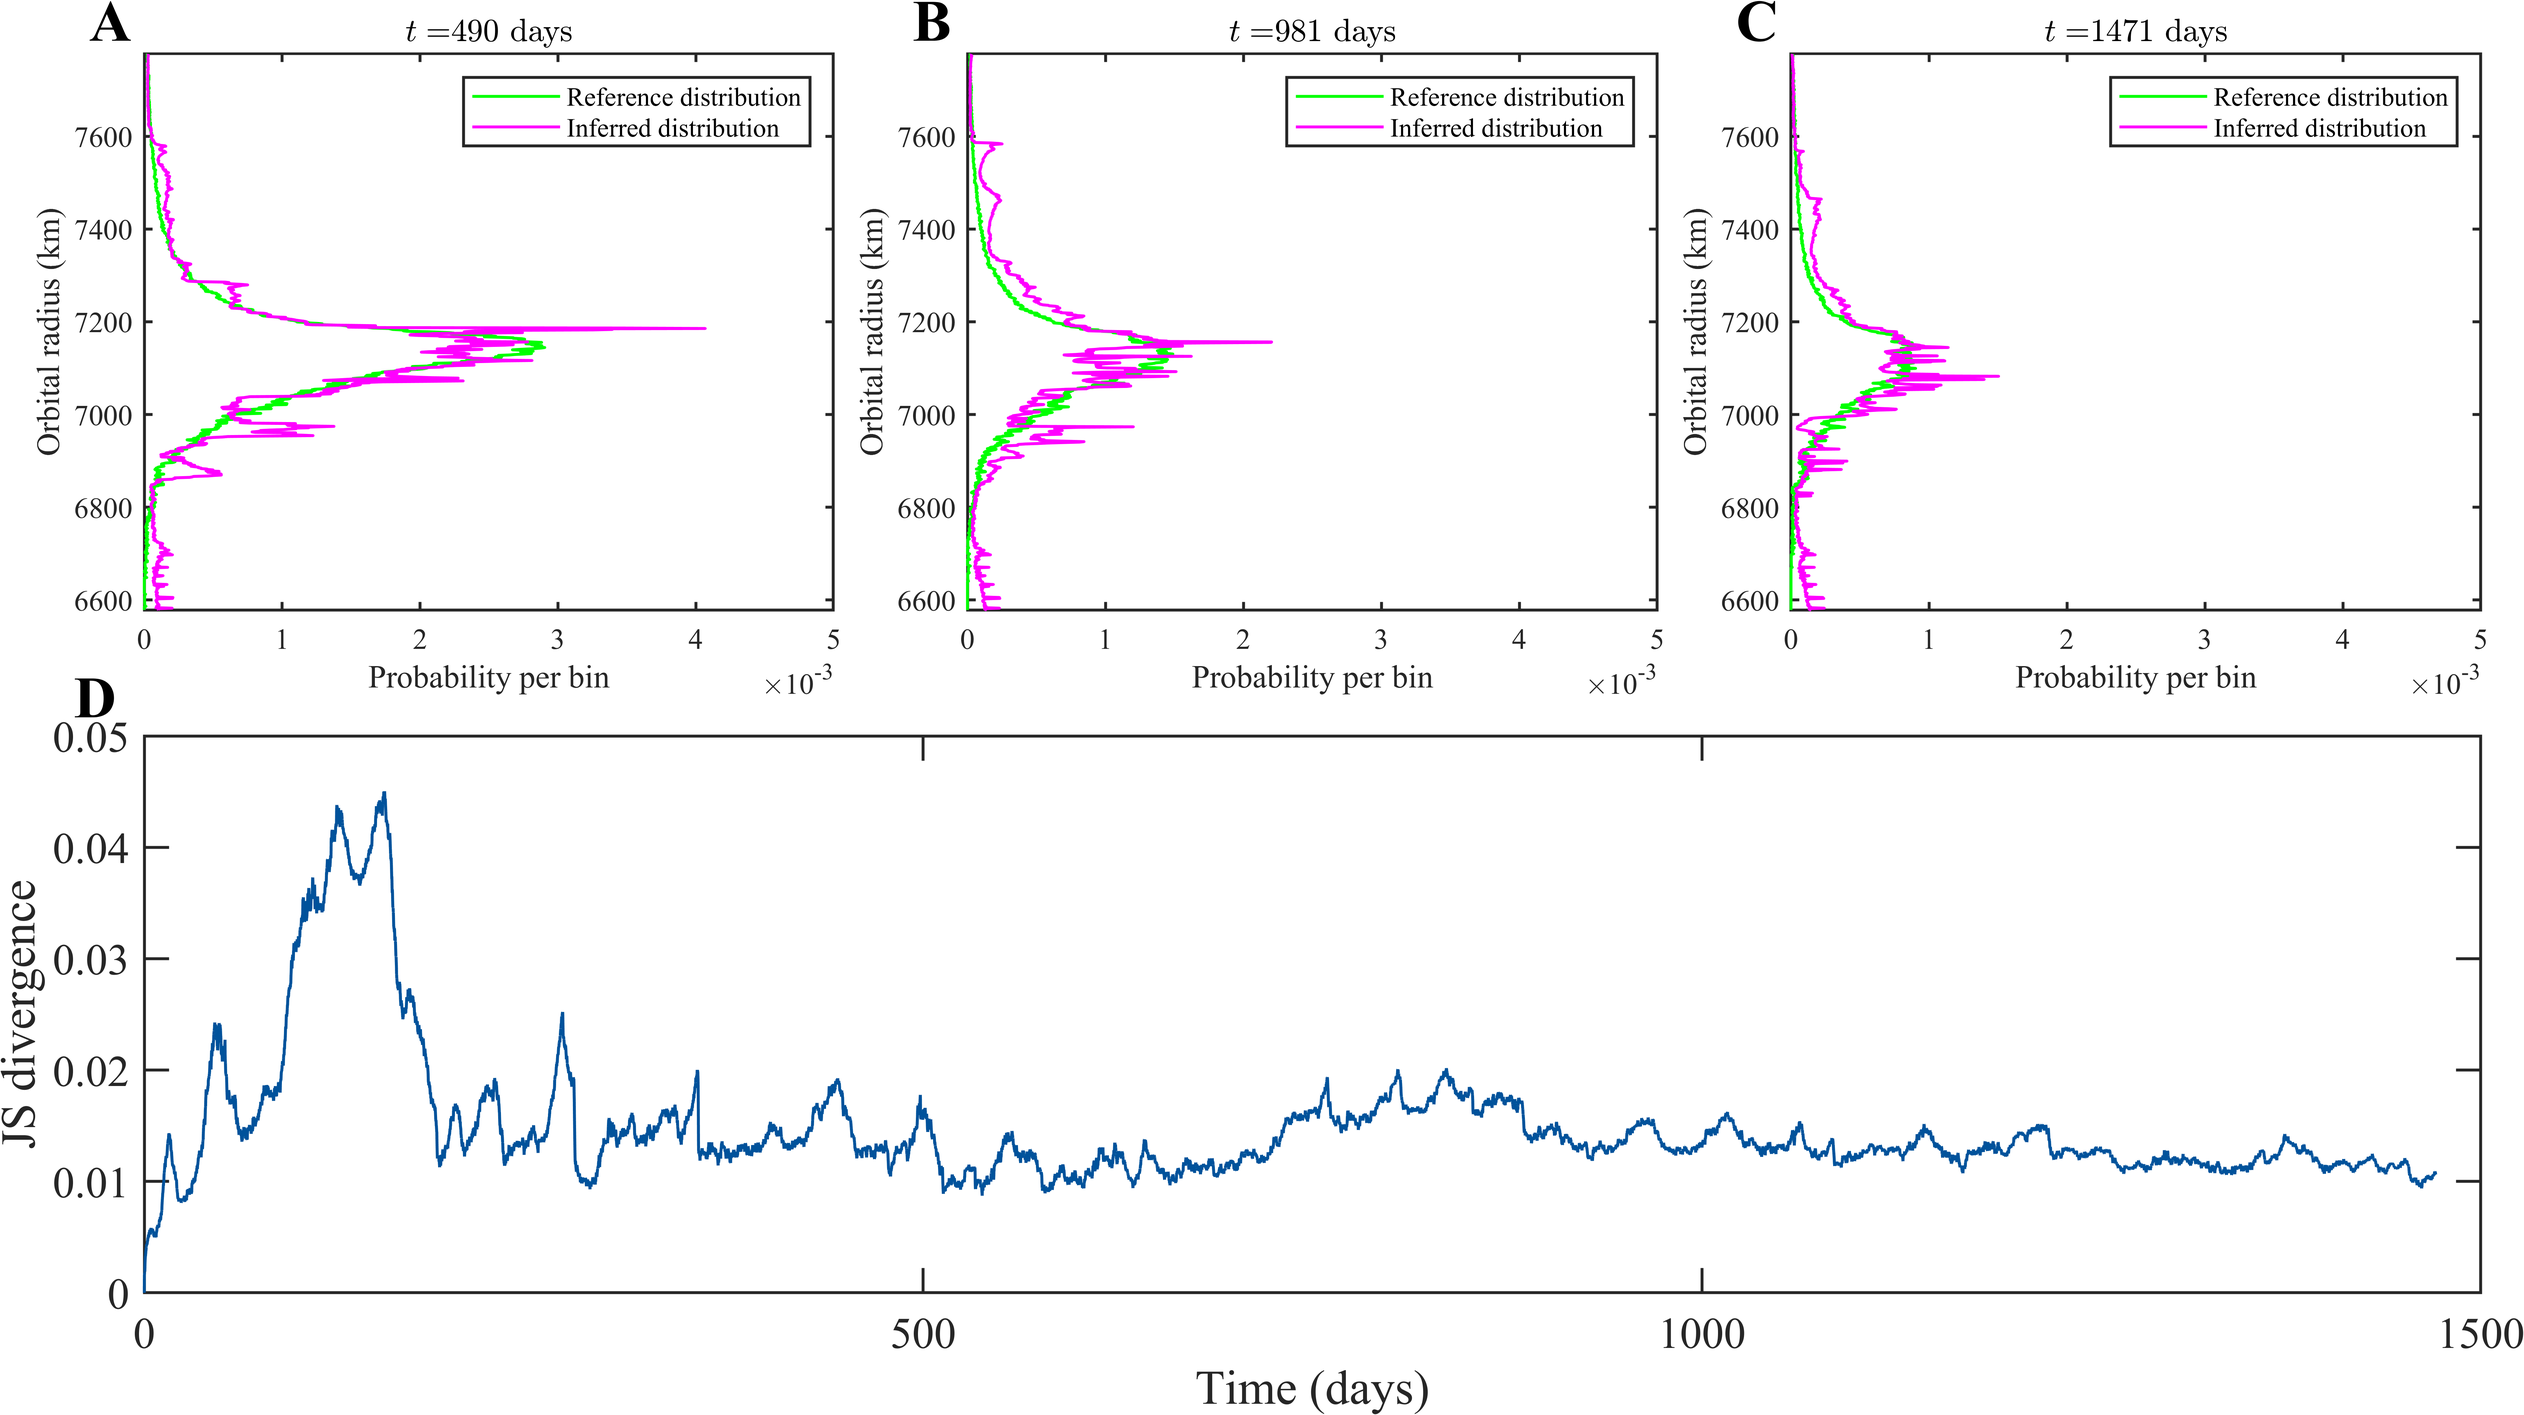
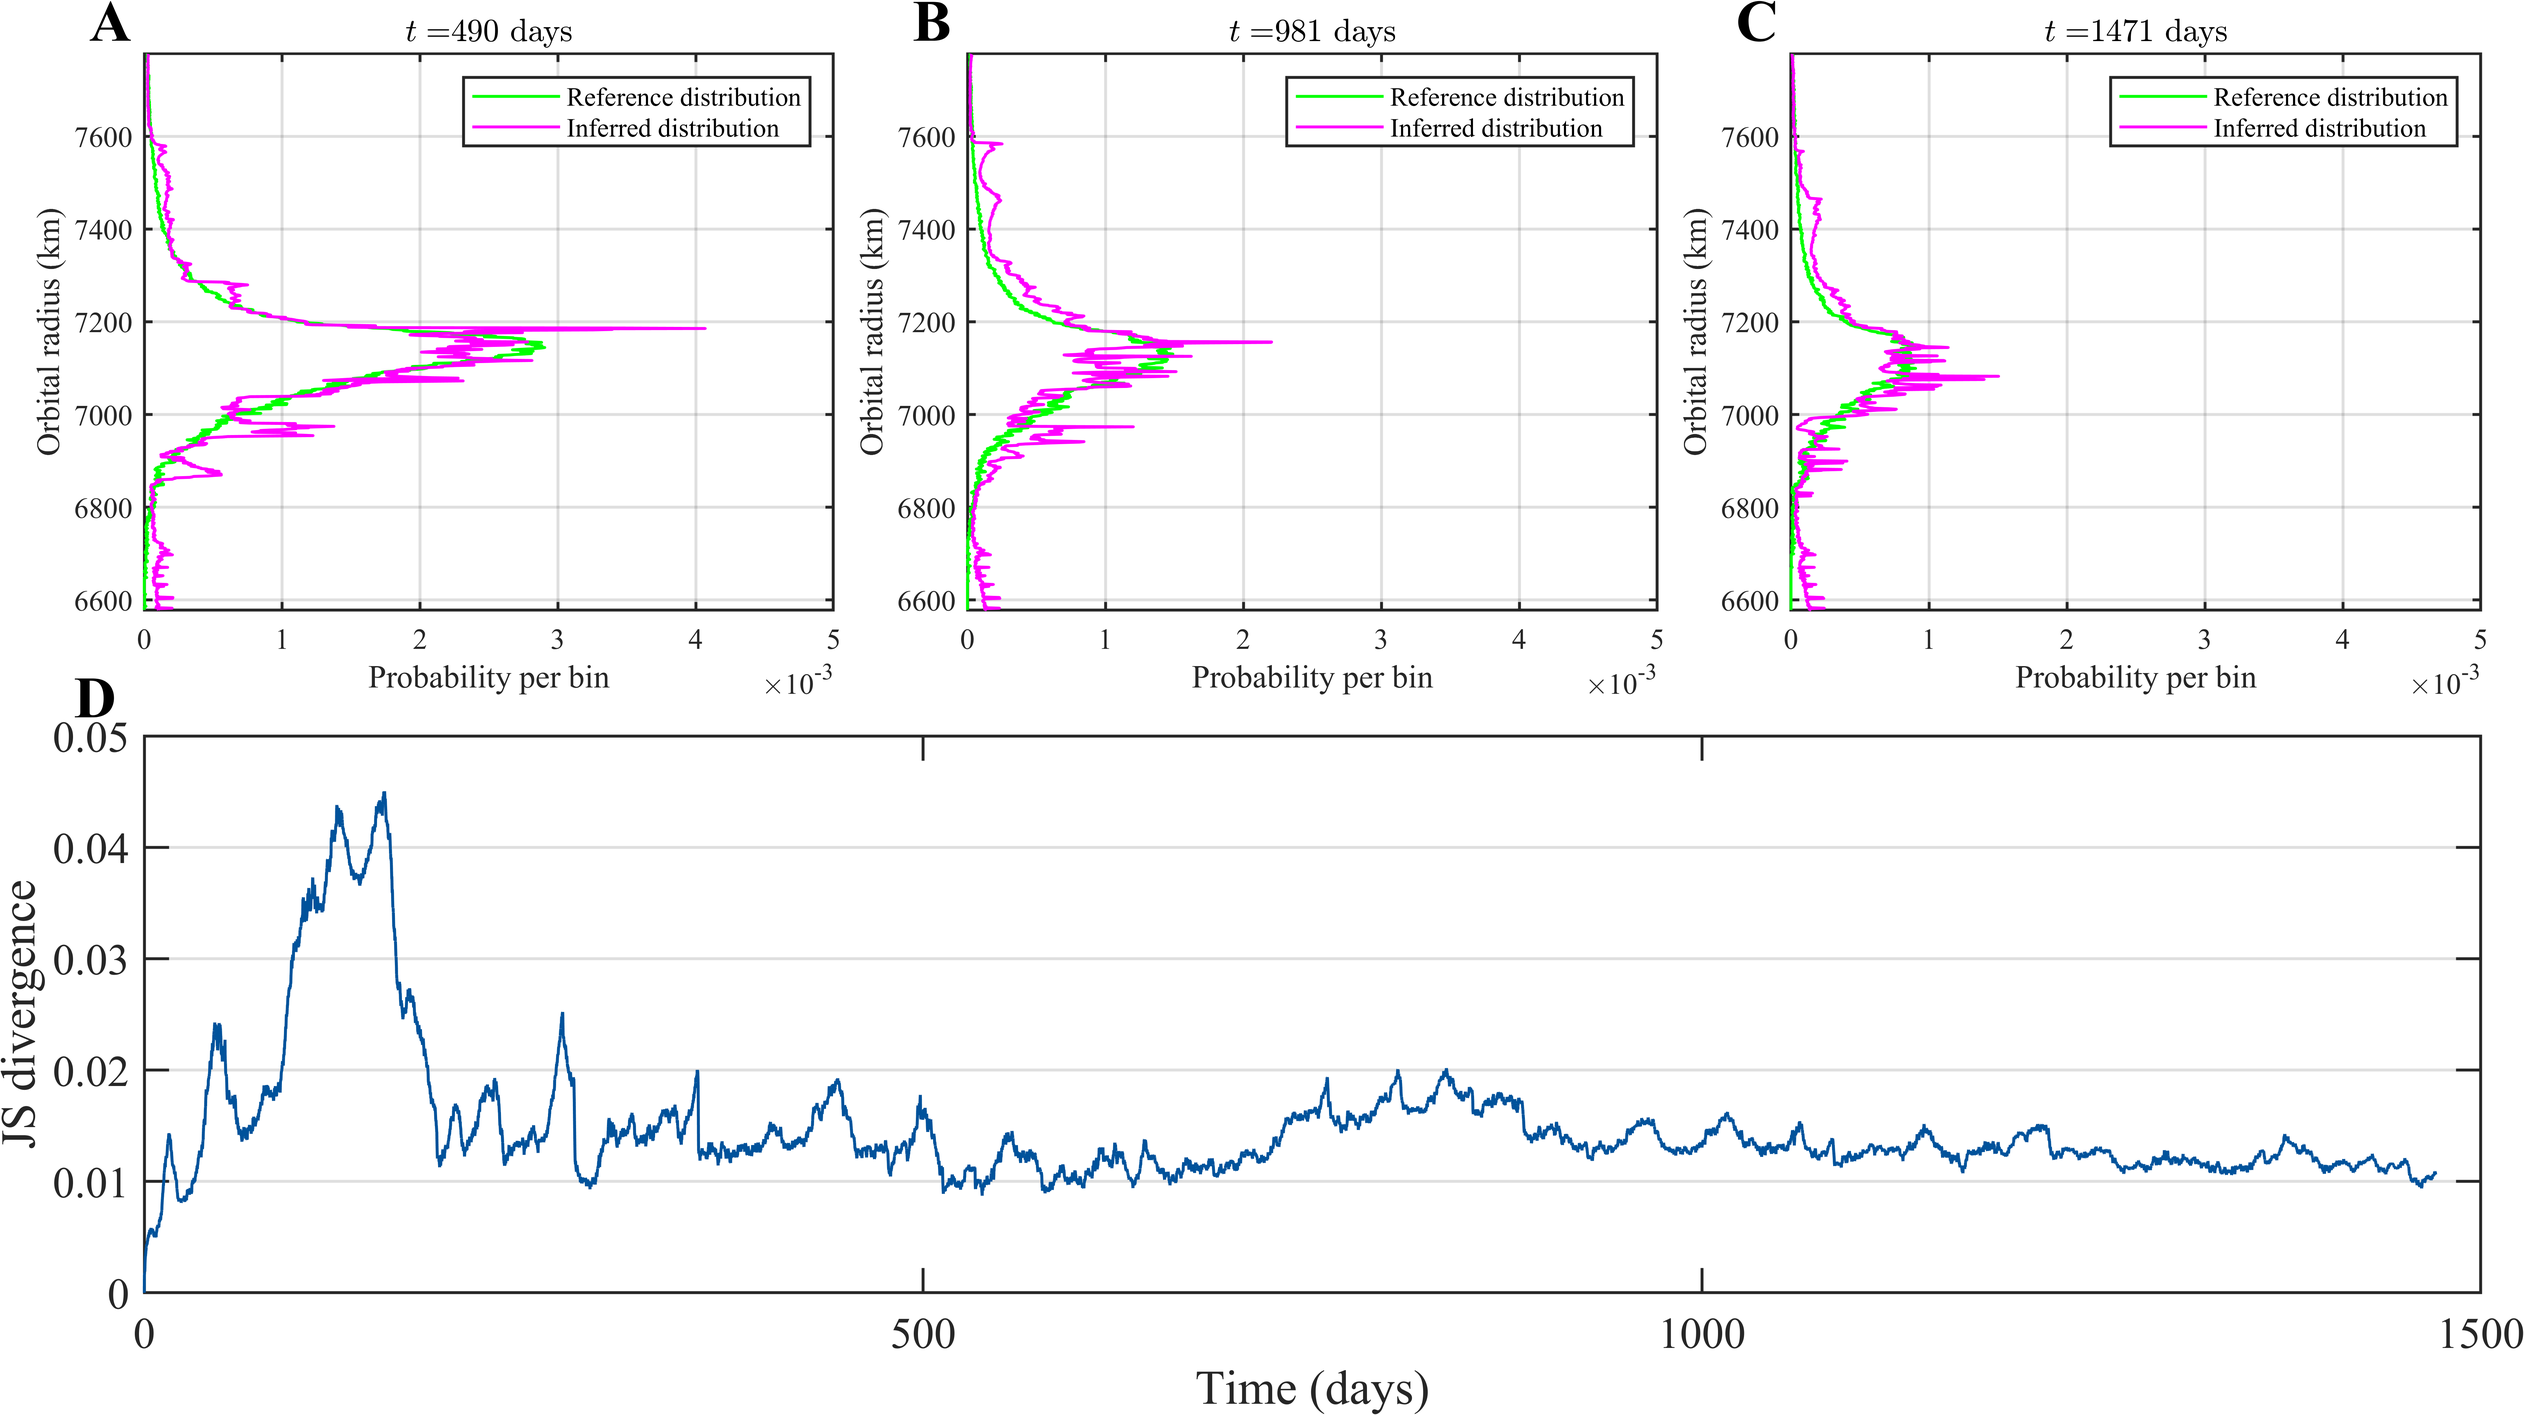
O2UDI v1

diff --git a/multi_debris/plot_SC.m b/multi_debris/plot_SC.m
@@ -41,19 +41,19 @@ end
 
 
 set(groot, 'defaultAxesFontName', 'Times New Roman');
-% ==== 上三下⼀布局 ====
-figure('Color','w','Position',[50 50 1200 1000],'WindowStyle','normal');
-tl = tiledlayout(3,3,'Padding','compact','TileSpacing','compact');
-
-
 snap_idx = [round(DAY/3),round(DAY/3*2),DAY];
 
-labels = {'A','B','C','D','E','F','G'};  % 子图标签（无括号）
+% ==== 第一张图：六个径向分布子图 ====
+fig_dist = figure('Color','w','Position',[50 50 1200 500],'WindowStyle','normal');
+tl_dist = tiledlayout(fig_dist,2,3,'Padding','loose','TileSpacing','loose');
+top_axes = gobjects(1,3);
+bottom_axes = gobjects(1,3);
 
 % ===== 上排三张子图：三个时间快照 =====
 for k = 1:3
     pic_num = snap_idx(k);
-    ax = nexttile(k);
+    ax = nexttile(tl_dist,k);
+    top_axes(k) = ax;
 
     plot(latter_real(1,:,pic_num), latter_real(2,:,pic_num), 'green', 'LineWidth', 1); hold on;
     plot(latter_tuiyan(1,:,pic_num), latter_tuiyan(2,:,pic_num), 'magenta', 'LineWidth', 1); hold off;
@@ -63,23 +63,22 @@ for k = 1:3
     legend('True distribution','Inferred distribution','Location','northeast');
 
     % 标题：进化时间 + JS散度
-    title(['Date: ', get_target_date(pic_num)]);
+    title(['Date: ', get_target_date(pic_num)],'FontSize',12,'FontWeight','normal');
 
-    set(ax,'FontSize',10,'LineWidth',1);
+    set(ax,'FontSize',11,'LineWidth',1);
+    ax.XGrid = 'on';
+    ax.YGrid = 'on';
 
     % 轴范围：第一个子图更宽，其余更窄（沿用你的逻辑）
 
     axis([0 0.015 lo_fenbu/1e3 hi_fenbu/1e3]); 
 
-    text(ax, -0.06, 1.12, labels{k}, 'Units','normalized', ...
-         'HorizontalAlignment','left', 'VerticalAlignment','top', ...
-         'FontName','Times New Roman','FontSize',15,'FontWeight','bold');
-
 end
 
 for k = 1:3
     pic_num = snap_idx(k);
-    ax = nexttile(k+3);
+    ax = nexttile(tl_dist,k+3);
+    bottom_axes(k) = ax;
 
     plot(latter_real(1,:,pic_num), latter_real(2,:,pic_num), 'green', 'LineWidth', 1); hold on;
     plot(movmean(latter_tuiyan(1,:,pic_num),10), latter_tuiyan(2,:,pic_num), 'magenta', 'LineWidth', 1); hold off;
@@ -89,38 +88,57 @@ for k = 1:3
     legend('True distribution','Smoothed inferred distribution','Location','northeast');
 
     % 标题：进化时间 + JS散度
-    title(['Date: ', get_target_date(pic_num)]);
+    title(['Date: ', get_target_date(pic_num)],'FontSize',12,'FontWeight','normal');
 
-    set(ax,'FontSize',10,'LineWidth',1);
+    set(ax,'FontSize',12,'LineWidth',1);
+    ax.XGrid = 'on';
+    ax.YGrid = 'on';
 
     % 轴范围：第一个子图更宽，其余更窄（沿用你的逻辑）
 
     axis([0 0.015 lo_fenbu/1e3 hi_fenbu/1e3]); 
 
-    text(ax, -0.06, 1.12, labels{k+3}, 'Units','normalized', ...
-         'HorizontalAlignment','left', 'VerticalAlignment','top', ...
-         'FontName','Times New Roman','FontSize',15,'FontWeight','bold');
-
 end
 
+drawnow;
 
-% ===== 下排一张子图（横跨整行）：JS随时间 =====
-ax4 = nexttile(7,[1 3]);
+top_pos = top_axes(2).Position;
+bottom_pos = bottom_axes(2).Position;
+
+% annotation(fig_dist,'textbox', ...
+%     [0.25,min(top_pos(2)+top_pos(4)+0.062,0.955),0.5,0.03], ...
+%     'String','(a) Original inferred distributions', ...
+%     'HorizontalAlignment','center','VerticalAlignment','middle', ...
+%     'FontName','Times New Roman','FontSize',15, ...
+%     'EdgeColor','none');
+% 
+% annotation(fig_dist,'textbox', ...
+%     [0.25,bottom_pos(2)+bottom_pos(4)+0.032,0.5,0.03], ...
+%     'String','(b) Smoothed inferred distributions', ...
+%     'HorizontalAlignment','center','VerticalAlignment','middle', ...
+%     'FontName','Times New Roman','FontSize',15, ...
+%     'EdgeColor','none');
+
+outfile_dist = fullfile(pwd,'fig_simulation_radial_distribution.png');
+exportgraphics(fig_dist, outfile_dist, 'Resolution', 600, 'BackgroundColor','white');
+
+% ==== 第二张图：JS散度随时间变化 ====
+fig_js = figure('Color','w','Position',[100 100 1000 400],'WindowStyle','normal');
+ax_js = axes(fig_js);
 t_days = 1:DAY;
-plot(t_days, JS_sandu,'Color', [0, 82, 155]/255, 'LineWidth', 1); hold on;
-plot(t_days, JS_sandu_smooth,'Color', [230, 90, 13]/255, 'LineWidth', 1); hold on;
+plot(ax_js,t_days, JS_sandu,'Color', [0, 82, 155]/255, 'LineWidth', 1); hold(ax_js,'on');
+plot(ax_js,t_days, JS_sandu_smooth,'Color', [230, 90, 13]/255, 'LineWidth', 1); hold(ax_js,'off');
 xlabel('Time elapsed since 2009-05-10 (days)');
 ylabel('JS divergence');
 legend('Original inferred','Smoothed inferred','Location','southeast');
 ylim([0 0.07]);
-set(ax4,'FontSize',12,'LineWidth',1);
+set(ax_js,'FontSize',16,'LineWidth',1);
+ax_js.XGrid = 'off';
+ax_js.YGrid = 'on';
 
-text(ax4, -0.02, 1.12, labels{7}, 'Units','normalized', ...
-     'HorizontalAlignment','left', 'VerticalAlignment','top', ...
-     'FontName','Times New Roman','FontSize',15,'FontWeight','bold');
-
-
-
+% text(ax_js, -0.04, 1.08, 'G', 'Units','normalized', ...
+%      'HorizontalAlignment','left', 'VerticalAlignment','top', ...
+%      'FontName','Times New Roman','FontSize',16,'FontWeight','bold');
 
 % 输出平均JS
 disp(mean(JS_sandu_smooth));
@@ -128,13 +146,8 @@ disp(mean(JS_sandu_smooth-JS_sandu))
 
 drawnow;  % 刷新图像
 
-% ==== 精确导出为 A4 尺寸、400 DPI ====
-% A4: 8.27 × 11.69 inch
-
-
-outfile = fullfile(pwd,'fig3.png');  % 路径可自改
-exportgraphics(tl, outfile, 'Resolution', 600, 'BackgroundColor','white');
-
+outfile_js = fullfile(pwd,'fig_simulation_js_divergence.png');
+exportgraphics(fig_js, outfile_js, 'Resolution', 600, 'BackgroundColor','white');
 
 
 

diff --git a/simulation/plot_SC_4.m b/simulation/plot_SC_4.m
@@ -38,20 +38,20 @@ end
 
 
 set(groot, 'defaultAxesFontName', 'Times New Roman');
-% ==== 上三下⼀布局 ====
-figure('Color','w','Position',[50 50 1200 1000],'WindowStyle','normal');
-tl = tiledlayout(2,3,'Padding','compact','TileSpacing','compact');
+% ==== 图1：三个时间快照 ====
+figure('Color','w','Position',[50 50 1200 420],'WindowStyle','normal');
+tl_dist = tiledlayout(1,3,'Padding','compact','TileSpacing','compact');
 
 % 计算三个快照在原循环中的索引（跳过第一个=1）
 snap_idx = 1:ns/3:ns+1;   % [1, 1+ns/3, 1+2ns/3, ns+1]
 snap_idx = snap_idx(2:4); % 只取后三个
 
-labels = {'A','B','C','D'};  % 子图标签（无括号）
+% labels = {'A','B','C'};  % 子图标签（无括号）
 
-% ===== 上排三张子图：三个时间快照 =====
+% ===== 三张子图：三个时间快照 =====
 for k = 1:3
     pic_num = snap_idx(k);
-    ax = nexttile(k);
+    ax = nexttile(tl_dist,k);
 
     plot(xiao_cankao(1,:,pic_num), xiao_cankao(2,:,pic_num), 'green', 'LineWidth', 1); hold on;
     plot(xiao_tuiyan(1,:,pic_num), xiao_tuiyan(2,:,pic_num), 'magenta', 'LineWidth', 1); hold off;
@@ -61,35 +61,34 @@ for k = 1:3
     legend('Reference distribution','Inferred distribution','Location','northeast');
 
     % 标题：进化时间 + JS散度
-    title(['$t = $', num2str(round((pic_num-1)*Ts/86400)), ' days'],'Interpreter', 'latex');
+    title(['$t = $', num2str(round((pic_num-1)*Ts/86400)), ' days'], ...
+        'Interpreter', 'latex','FontSize',14);
 
-    set(ax,'FontSize',10,'LineWidth',1);
+    set(ax,'FontSize',12,'LineWidth',1,'XGrid','on','YGrid','on');
 
     % 轴范围：第一个子图更宽，其余更窄（沿用你的逻辑）
 
     axis([0 0.005 lo_fenbu/1e3  hi_fenbu/1e3]);
 
-    text(ax, -0.08, 1.12, labels{k}, 'Units','normalized', ...
-         'HorizontalAlignment','left', 'VerticalAlignment','top', ...
-         'FontName','Times New Roman','FontSize',20,'FontWeight','bold');
+%     text(ax, -0.08, 1.12, labels{k}, 'Units','normalized', ...
+%          'HorizontalAlignment','left', 'VerticalAlignment','top', ...
+%          'FontName','Times New Roman','FontSize',16,'FontWeight','bold');
 
 end
 
 
 
 
-% ===== 下排一张子图（横跨整行）：JS随时间 =====
-ax4 = nexttile(4,[1 3]);
+% ===== 图2：JS散度随时间 =====
+figure('Color','w','Position',[100 100 720 450],'WindowStyle','normal');
+tl_js = tiledlayout(1,1,'Padding','compact','TileSpacing','compact');
+ax4 = nexttile(tl_js,1);
 t_days = (0:ns)*Ts/86400;
 plot(t_days, JS_sandu,'Color', [0, 82, 155]/255, 'LineWidth', 1);
 xlabel('Time (days)');
 ylabel('JS divergence');
 ylim([0 0.05]);
-set(ax4,'FontSize',15,'LineWidth',1);
-
-text(ax4, -0.03, 1.13, labels{4}, 'Units','normalized', ...
-     'HorizontalAlignment','left', 'VerticalAlignment','top', ...
-     'FontName','Times New Roman','FontSize',20,'FontWeight','bold');
+set(ax4,'FontSize',15,'LineWidth',1,'XGrid','off','YGrid','on');
 
 
 
@@ -103,8 +102,11 @@ drawnow;  % 刷新图像
 % A4: 8.27 × 11.69 inch
 
 
-outfile = fullfile(pwd,'fig1_4.png');  % 路径可自改
-exportgraphics(tl, outfile, 'Resolution', 600, 'BackgroundColor','white');
+outfile_dist = fullfile(pwd,'fig1_4_distribution.png');  % 路径可自改
+exportgraphics(tl_dist, outfile_dist, 'Resolution', 600, 'BackgroundColor','white');
+
+outfile_js = fullfile(pwd,'fig1_4_js.png');  % 路径可自改
+exportgraphics(tl_js, outfile_js, 'Resolution', 600, 'BackgroundColor','white');
 
 
 

diff --git a/simulation/plot_SC_2.m b/simulation/plot_SC_2.m
@@ -9,7 +9,7 @@ R=6378e3;
 snap_idx = 1:ns/4:ns+1;   % [1, 1+ns/3, 1+2ns/3, ns+1]
 snap_idx = snap_idx(2:5); % 只取后三个
 
-labels = {'A','B','C','D','E','F','G','H'};  % 子图标签（无括号）
+% labels = {'A','B','C','D','E','F','G','H'};  % 子图标签（无括号）
 
 % ===== 上排三张子图：三个时间快照 =====
 for k = 1:4
@@ -96,12 +96,12 @@ for k = 1:4
 %     ylabel('Eccentricity');
     end
     ylabel('Eccentricity');
-    set(ax,'FontSize',10,'LineWidth',1);
+    set(ax,'FontSize',10,'LineWidth',1,'XGrid','on','YGrid','on','Box','on');
     axis([6.6e3 7.8e3 0 0.1]);
 
-    text(ax, -0.075,1.25, labels{2*k-1}, 'Units','normalized', ...
-         'HorizontalAlignment','left', 'VerticalAlignment','top', ...
-         'FontName','Times New Roman','FontSize',12,'FontWeight','bold');
+%     text(ax, -0.075,1.25, labels{2*k-1}, 'Units','normalized', ...
+%          'HorizontalAlignment','left', 'VerticalAlignment','top', ...
+%          'FontName','Times New Roman','FontSize',12,'FontWeight','bold');
     subtitle(ax,['$t = $', num2str(round((pic_num-1)*Ts/86400)), ' days'],"FontSize",10,'Interpreter', 'latex');
     % 推演值
     ax = nexttile(2*k);
@@ -123,21 +123,21 @@ for k = 1:4
 %     ylabel('Eccentricity');
     end
 %     subtitle(['evolution time: ', num2str(round((pic_num-1)*Ts/86400)), ' days']);
-    set(ax,'FontSize',10,'LineWidth',1);
+    set(ax,'FontSize',10,'LineWidth',1,'XGrid','on','YGrid','on','Box','on');
     axis([6.6e3 7.8e3 0 0.1]);
 
-    text(ax, -0.075,1.25, labels{2*k}, 'Units','normalized', ...
-         'HorizontalAlignment','left', 'VerticalAlignment','top', ...
-         'FontName','Times New Roman','FontSize',12,'FontWeight','bold');
+%     text(ax, -0.075,1.25, labels{2*k}, 'Units','normalized', ...
+%          'HorizontalAlignment','left', 'VerticalAlignment','top', ...
+%          'FontName','Times New Roman','FontSize',12,'FontWeight','bold');
     subtitle(ax,['$t = $', num2str(round((pic_num-1)*Ts/86400)), ' days'],"FontSize",10,'Interpreter', 'latex');
 
 end
 
 ax = nexttile(1);
-title("Reference population","FontSize",14)
+title("(a) Reference population","FontSize",14)
 
 ax = nexttile(2);
-title("Inferred population","FontSize",14)
+title("(b) Inferred population","FontSize",14)
 
 drawnow;  % 刷新图像
 

diff --git a/single_debris/plot_SC.m b/single_debris/plot_SC.m
@@ -11,7 +11,6 @@ set(groot, 'defaultAxesFontName', 'Times New Roman');
 figure('Color','w','Position',[50 50 1200 1000],'WindowStyle','normal');
 tl = tiledlayout(3,3,'Padding','compact','TileSpacing','compact');
 
-labels = {'A','B','C','D','E','F','G','H','I'};  % 子图标签（无括号）
 nums = randperm(length(linexy_record), 9);
 
 % ===== 上排三张子图：三个时间快照 =====
@@ -25,7 +24,8 @@ for k = 1:9
     plot(linexy_record{nums(k)}(1,:),linexy_record{nums(k)}(2,:),'Color','magenta','LineWidth',1);
     hold off;
 
-%     grid on;
+    grid(ax, 'on');
+    box(ax, 'on');
     
 
     text(0.05, 0.9, sprintf('$R^2 = %.4f$', R2_record{nums(k)}), ...
@@ -41,7 +41,7 @@ for k = 1:9
     'Clipping', 'on');
 
     xlabel('$B^*\;(R_{\mathrm{E}}^{-1})$', 'Interpreter', 'latex');
-    ylabel('$\frac{|\Delta a|}{\Delta t}\;(\mathrm{km/s})$', ...
+    ylabel('$\overline{\dot{a}}\;(\mathrm{km/s})$', ...
        'Interpreter', 'latex');
 
     xlim([0 1.05*max(pointxy_record{nums(k)}(1,:))]);  % 将X轴下限设为0，上限自动
@@ -51,11 +51,6 @@ for k = 1:9
   
     set(ax,'FontSize',10,'LineWidth',1);
 
-
-    text(ax, -0.1, 1.12, labels{k}, 'Units','normalized', ...
-         'HorizontalAlignment','left', 'VerticalAlignment','top', ...
-         'FontName','Times New Roman','FontSize',15,'FontWeight','bold');
-    
 end
 
 drawnow;  % 刷新图像
